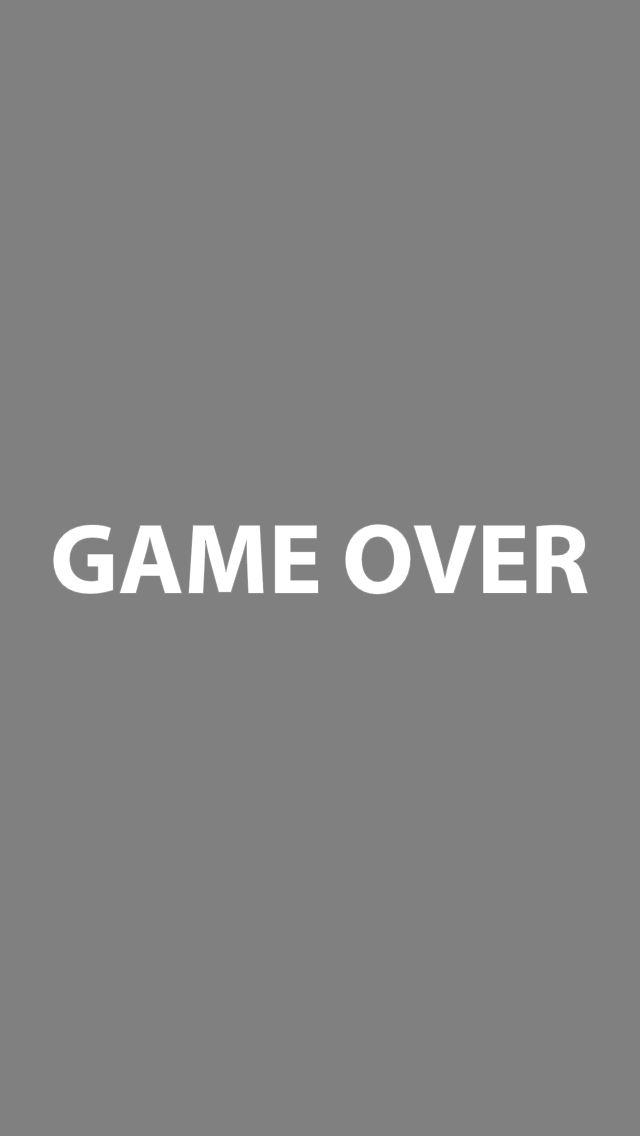
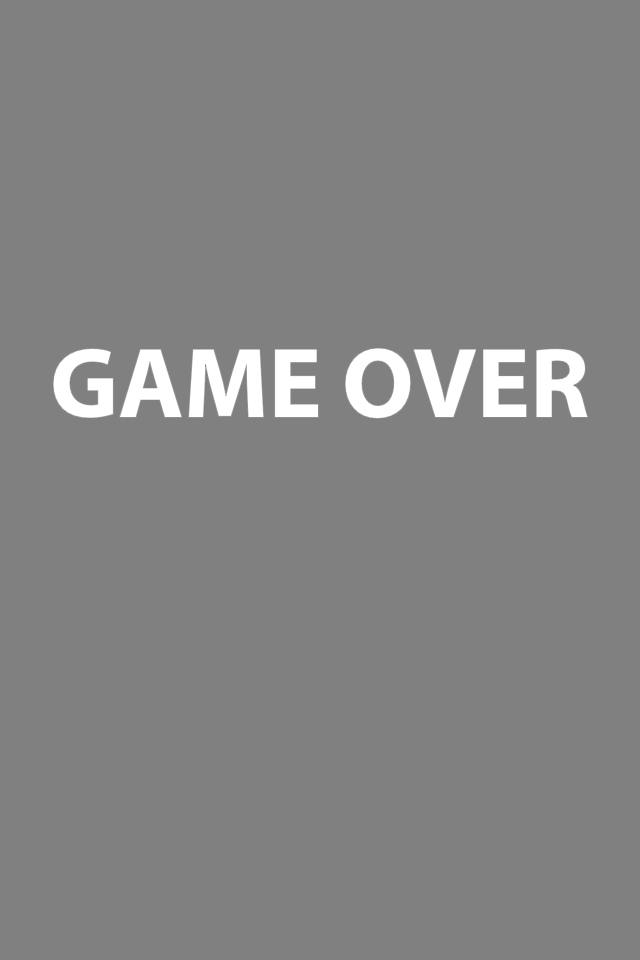
edited size

Changed region(s): [[0.0625, 0.3438, 0.5, 0.5312], [0.5312, 0.3438, 0.9375, 0.5312]]

diff --git a/src/shoot/World.java b/src/shoot/World.java
@@ -34,7 +34,7 @@ public class World extends JPanel {
 	static Music gameOverMusic = new Music(gameOverMusicName);
 	
 	public static final int WIDTH = 640;  // width of window
-	public static final int HEIGHT = 1136; // height of window
+	public static final int HEIGHT = 960; // height of window
 	
 	private int state = START;
 	public static final int START = 0;
@@ -205,6 +205,7 @@ public class World extends JPanel {
 					playingMusic.stop();
 				} else if(state == GAME_OVER){ // GAME_OVER, click to START 
 					state = START;
+					startMusic.play();
 					// from GAME_OVER to START，initialize data again
 					enemies = new FlyingObject[0];
 					bullets = new Bullet[0];
